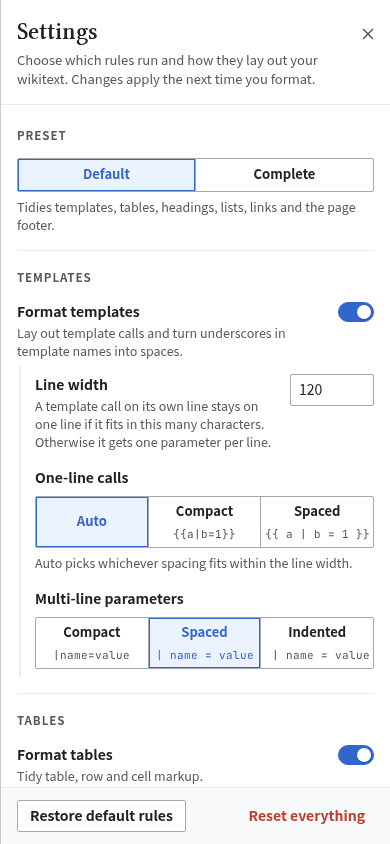
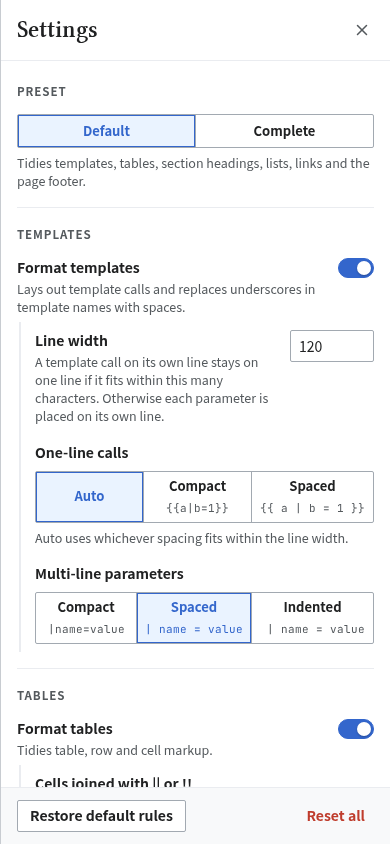
docs: describe the status bar, language menu, and motion
Update the README and design reference, add a Motion section, retake the
screenshots, and record the changes under Unreleased.

diff --git a/docs/design/README.md b/docs/design/README.md
@@ -4,26 +4,42 @@ The reference screenshots are `workspace-desktop.png` (1536×1024, the example a
 
 ## Layout
 
-- One header row holds the wordmark, tagline, a "Runs locally" badge, the theme switch, the language menu, Settings and the repository link. Below 900px the badge is hidden; below 760px the header theme switch is hidden and the theme is chosen under Settings → Display, where it is always available.
+- One header row holds the wordmark, the theme switch, the language menu (a Radix dropdown menu listing Browser language and the three interface languages, each in its own language), Settings and the repository link. Below 760px the header theme switch is hidden and the theme is chosen under Settings → Display, where it is always available.
 - The workspace is two editors joined by the **format seam**: a column between Source and Result holding the Format button and its shortcut. While formatting, the button becomes Stop.
-- The Source pane header has the file name, statistics, Open and Clear. An empty source shows a short card with Paste, Open a file and Try an example. A file can also be dropped anywhere on the pane.
+- The Source pane header has the file name, statistics, Open and Clear. An empty source shows a card with one heading and Paste, Open file and Load example. A file can also be dropped anywhere on the pane. The empty Result pane shows "No result yet".
 - The Result pane has Result and Changes tabs (Changes shows the changed-line count), plus Copy, Download and Replace source. An out-of-date result is shown desaturated and labelled "Out of date".
-- The report bar along the bottom gives the status in a single sentence, the active preset with an Adjust link, and a Details toggle. Details opens what changed, warnings, failure reasons, technical details and version information.
-- Settings is a modal sheet (Radix Dialog) with Preset, Templates, Tables, Page layout, Links and footer, Display and Advanced sections. Changes apply the next time you format.
+- The report bar along the bottom reads like an editor's status bar: a status label and short facts (duration, the reason a result is out of date, or a failure phrase with its code), then per-rule counts such as `Templates 3 · Tables 1`, then the active preset, which opens Settings. A count with a known line is a button that jumps there; ambiguous, skipped items carry a warning mark. The core's stage and message are the code's tooltip. Below 760px the bar wraps and the preset is hidden.
+- Settings is a modal sheet (Radix Dialog) with Preset, Templates, Tables, Page layout, Links and footer, Display and Advanced sections. Advanced ends with the formatter and web app versions and a link to the formatter engine.
+- Pane headers respond to the pane's own width (container queries), not the viewport: as a pane narrows, the Result title is hidden first, then the action buttons become icon-only, so headers never wrap or overlap.
+- In the settings sheet, choices with a preview stack vertically, label on the left and sample on the right, when the sheet is narrower than 380px.
 - Below 760px one pane shows at a time behind a Source/Result switch, and the seam becomes a full-width Format button above the report bar.
 - Notifications (copy, file opened, clear with Undo) use sonner toasts.
 
 ## Design system
 
 - Palette (light): paper `#ffffff`, chrome `#f8f9fa`, ink `#202122`, rules `#c8ccd1`. Progressive blue `#36c` for primary actions and links, success `#177860`, warning `#8a5300`, destructive `#bf3c2c`. These follow the MediaWiki Codex palette, so the tool feels at home next to a wiki.
-- Dark theme: paper `#101418`, ink `#eaecf0`, progressive `#88a3e8`. It switches without transitions so no element is caught at mid-fade contrast.
+- Dark theme: paper `#101418`, ink `#eaecf0`, progressive `#88a3e8`. Theme and language changes repaint the page as one 200ms crossfade (View Transitions API); individual elements do not transition, so none is caught at mid-fade contrast.
 - Type: Libertinus Serif (the Linux Libertine successor used for Wikipedia headings) for the wordmark and pane titles; the system sans-serif stack for interface text; JetBrains Mono for the editors, shortcuts and file names.
 - Signature: the wordmark is wrapped in template braces, `{{Wikitext Formatter}}`, and the seam carries the Format button between the two editors.
 - Borders are 1px, corners 2px (6px for the sheet and cards). Shadows are reserved for the settings sheet, toasts, the Format button and switch thumbs.
 - Changed output lines get a soft blue background and a 3px blue left rule.
 
+## Motion
+
+Motion marks a change of state and stays short (under half a second), using an ease-out curve.
+
+- On load, the header, the two panes with the seam, and the report bar rise in, 50ms apart.
+- When a result arrives, changed lines flash once; lines rendered later on scroll stay still. The Changes count and the Out of date tag pop in, and rule counts in the report bar enter one after another in reading order.
+- While formatting, a ring ripples out from the Format button. The button presses in on click.
+- The language menu scales in from its trigger, whose chevron turns; the checked item's mark pops in. The settings sheet slides in and slides back out on close.
+- The empty-source card and the drop overlay rise in; tab underlines grow from the centre.
+- With `prefers-reduced-motion: reduce`, all animations and transitions are cut to 1ms and the crossfade is skipped.
+
 ## Writing
 
-- Sentence case, plain verbs, and the same name for an action throughout: the button "Replace source" produces the status "Source replaced"; "Clear" produces "Source cleared".
-- Failure copy says what happened and what to do next. The core formatter's original message stays visible under Technical details so it can be searched.
+- Labels and status items are words or short phrases, not sentences. Only Settings hints and error messages that need an action use full sentences.
+- State what something does; no disclaimers or negative reassurances ("never", "only", "will not").
+- Use MediaWiki's own terms in each language: source / 源代码 / 原始碼, changes / 更改 / 變更, section headings / 章节标题 / 章節標題, internal links / 内部链接 / 內部連結, redirects / 重定向 / 重新導向, preset / 方案. The register is formal: no contractions in English and no 你 in Chinese.
+- The same name for an action throughout: the button "Replace source" produces the status "Source replaced"; "Clear" produces "Source cleared".
+- Say each thing once. The shortcut lives on the format seam, versions in Settings, the changed-line count on the Changes tab. The core's original failure message stays in the code's tooltip so it can be searched.
 - Chinese catalogs contain no manual spaces between Han characters and Latin letters or digits. The page sets `text-autospace: normal` so supporting browsers add that spacing; code, shortcuts and editors opt out with `no-autospace`.

diff --git a/README.md b/README.md
@@ -8,11 +8,10 @@ Formatting runs locally in your browser. Source text is not uploaded, logged, pl
 
 - Two CodeMirror 6 editors, Source and Result, joined by a Format button with its Ctrl/Cmd+Enter shortcut. Both have line numbers, search, bracket matching, optional line wrapping, and MediaWiki Wikitext highlighting.
 - Explicit formatting through `wikitext-fmt/browser`; formatting never runs on each keystroke or on the main UI thread.
-- A one-sentence status for every outcome: formatted, no changes needed, left unchanged (fail-closed), formatter error, and out of date.
-- A report bar whose Details panel lists what changed, skipped rules, why a result was rejected, and the core's exact failure code, stage and message.
+- A status bar for every outcome (formatted, no changes, not formatted when the result fails verification, error, out of date) with per-rule change counts that jump to the affected line, and the core's failure code with its stage and message as a tooltip.
 - A Changes tab with a side-by-side merge view on wide screens and a unified view on narrow ones.
-- Paste, open or drop a file, try an example, copy, download, replace the source with the result (undoable), and clear with Undo.
-- A settings sheet with Default and Complete presets, per-rule controls, and the theme and line-wrapping choices.
+- Paste, open or drop a file, load an example, copy, download, replace the source with the result (undoable), and clear with Undo.
+- A settings sheet with Default and Complete presets, per-rule controls, the theme and line-wrapping choices, and the formatter and web app versions.
 - System, light and dark themes; responsive layouts down to 320px and 200% zoom.
 - No backend, analytics, advertising, external parser CDN, service worker, or Wikitext preview rendering.
 
@@ -100,7 +99,7 @@ The UI is available in **English**, **简体中文** (Simplified Chinese), and *
 
 The language preference is stored in `localStorage` (settings schema v3) so it is available before the formatter Worker finishes loading. Changing the language updates all React UI text, CodeMirror and diff accessible names, `document.documentElement.lang`, the page title, and meta tags immediately without rebuilding the Worker or clearing source text.
 
-**The formatter core returns diagnostics, failure codes, failure messages, and rule IDs in English.** The UI explains each failure code in plain language and translates the surrounding labels, but preserves the core's exact original message text under **Technical details** so it remains searchable.
+**The formatter core returns diagnostics, failure codes, failure messages, and rule IDs in English.** The UI names each failure code with a short translated phrase and keeps the core's exact original message as the code's tooltip so it remains searchable.
 
 The Chinese catalogs contain no manual spaces between Han characters and Latin letters or digits. The page sets CSS `text-autospace: normal`, so browsers that support it add that spacing; code, shortcuts and the editors opt out. Browsers without `text-autospace` show the text unspaced, and no spacing is added next to symbols such as `||` or `<br>`.
 

diff --git a/CHANGELOG.md b/CHANGELOG.md
@@ -2,6 +2,35 @@
 
 ## Unreleased
 
+### Changed
+
+- Replace the full-width report panel with a status bar: a status label,
+  short facts, and per-rule change counts that jump to the affected line. The
+  core's failure stage and message are the failure code's tooltip.
+- Rewrite the interface copy in all three languages as short, formal labels
+  using MediaWiki terminology; full sentences remain only in Settings hints and
+  actionable errors.
+- Remove the header tagline, the empty-source description, and the Settings
+  description.
+- Merge the active preset and Adjust into one button that opens Settings.
+- Move the formatter and web app versions into Settings → Advanced, replacing
+  the read-only Parser row.
+- Remove repeated copy: the "Runs locally" header badge, the privacy line in
+  the report, the shortcut hint and privacy note on the empty source, the
+  explanation on the empty result, the Ready status sentence, the line-wrapping
+  hint, and most of the Settings description.
+- Replace the language select with a dropdown menu.
+- Add motion: a load sequence, a one-time flash on changed lines, a ripple on
+  the Format button while formatting, menu and sheet enter and exit
+  animations, and a crossfade on theme and language changes. Reduced-motion
+  preferences turn all of it off.
+
+### Fixed
+
+- Stop text wrapping and controls overlapping at narrow widths: the empty-source
+  heading, the wordmark at 360px and below, pane headers at 1280–1366px, the
+  report bar on phones, and settings choices with previews at 360px and below.
+
 ## 0.5.0 — 2026-10-22
 
 ### Changed
